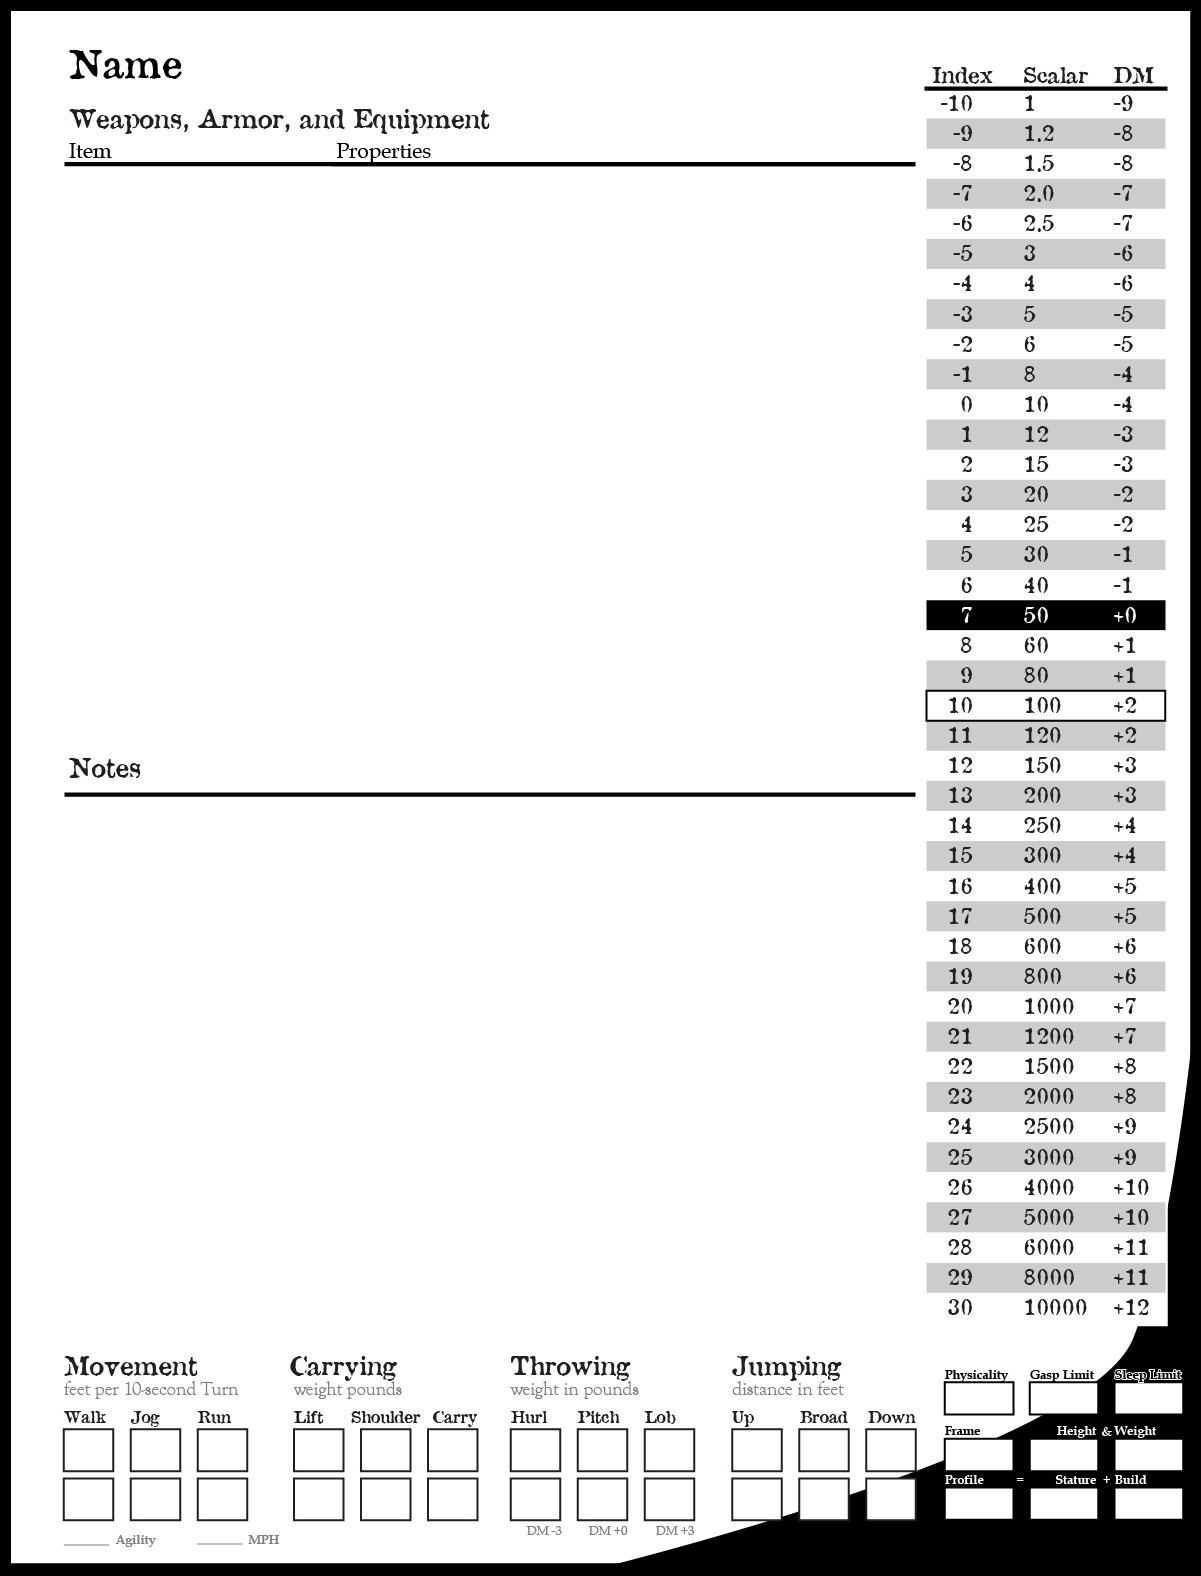
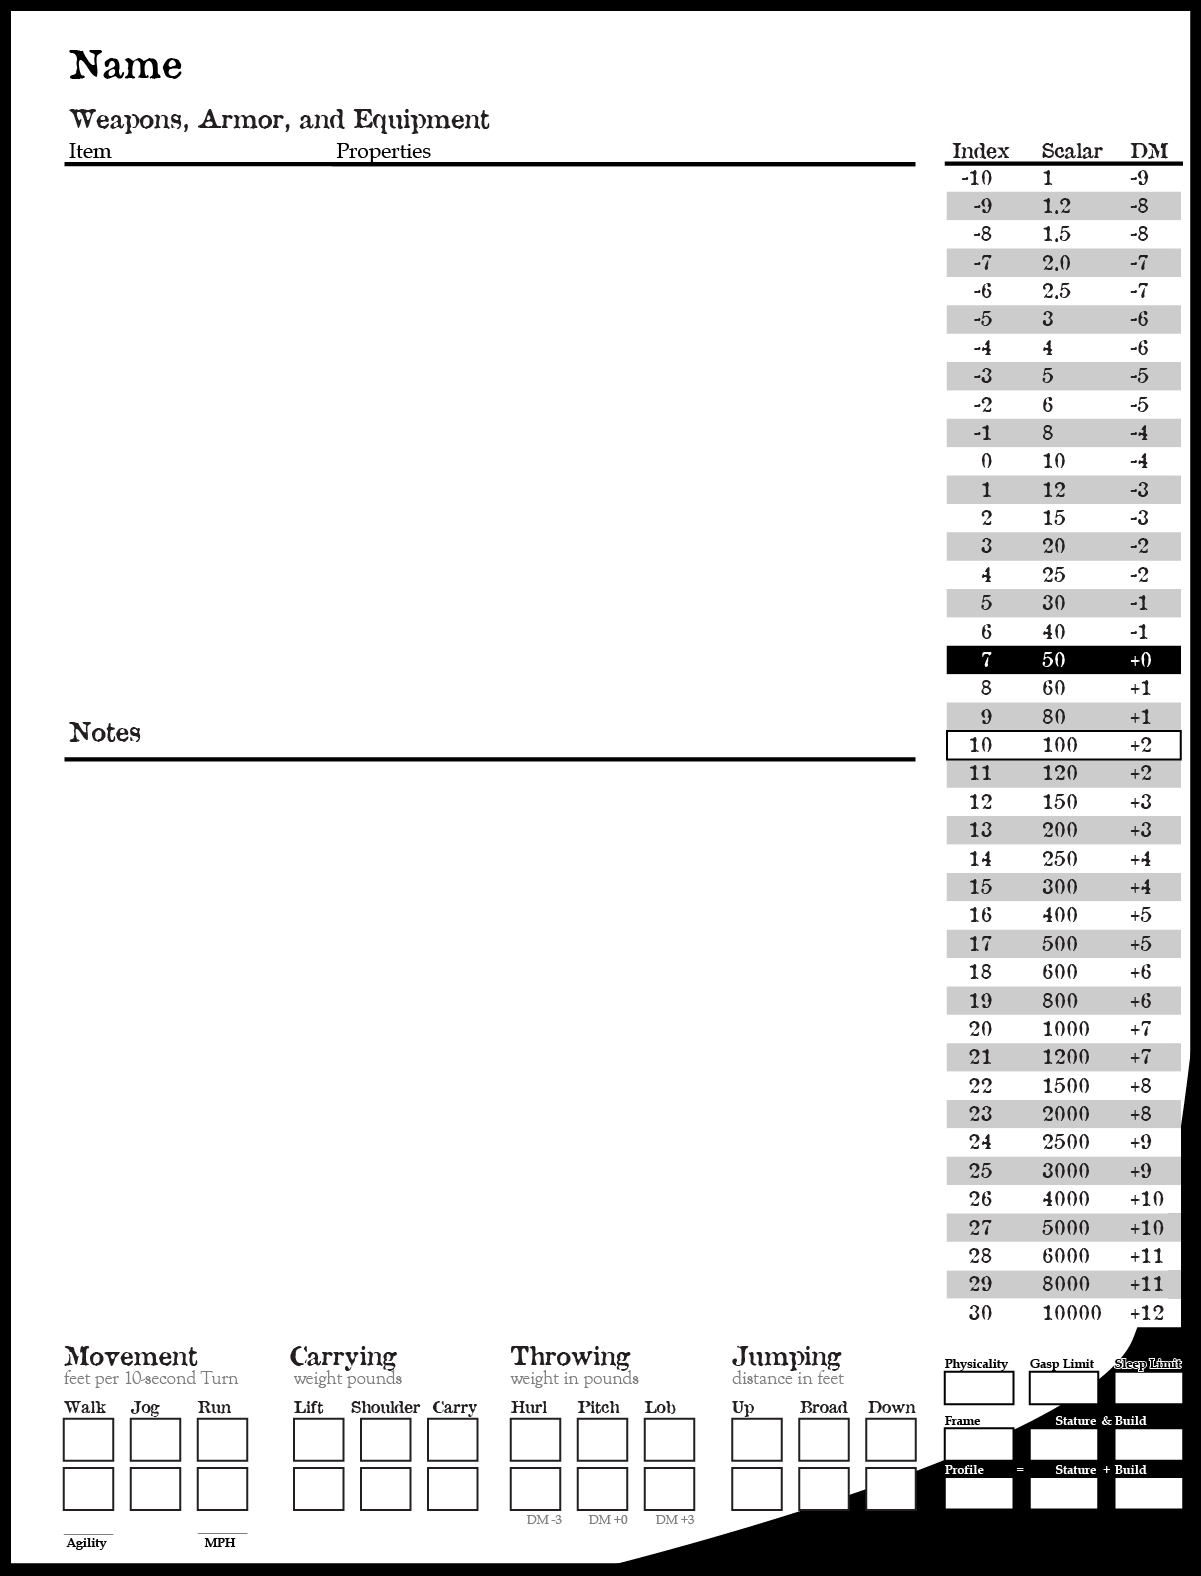
broken build. new images for crs.

diff --git a/public/character-creator/sheet-values.css b/public/character-creator/sheet-values.css
@@ -205,27 +205,70 @@
   line-height: 1.12;
 }
 #back .field-group-equipment .equipment-item { padding-left: 0; }
-#back .field-group-back-notes { left: 5%; top: 51.5%; width: 69.5%; height: 34%; }
+#back .field-group-back-notes { left: 5%; top: 49%; width: 69.5%; height: 34%; }
 #back .field-group-back-name .field,
 #back .field-group-back-notes .field { width: 100%; height: 100%; }
 #back [data-field="BackName"] { padding: 0; font-size: 2.1cqw; line-height: 1.08; }
 #back [data-field="BackNotes"] { font-size: 1.42cqw; }
 #back .field-group-derived-scores {
-  left: 5%; top: 81%; width: 69.5%; height: 5%;
-  display: grid; grid-template-columns: repeat(3, 1fr); gap: 1cqw;
+  left: 78.15%; top: 87%; width: 27.55%; height: 2.45%;
+  display: grid;
+  grid-template-columns: 21.65% 5.525% 26.65% 0.525% 19.65%;
 }
-#back .derived-score { display: grid; grid-template-columns: auto 1fr; align-items: baseline; gap: .5cqw; font-size: 1.42cqw; color: #555; }
-#back .derived-score .field { position: relative; width: 100%; height: 100%; padding: 0; font-size: 1.42cqw; line-height: 1; color: #222; }
-#back .field-group-movement-extras {
-  left: 0; top: 0; width: 100%; height: 100%;
+#back .field-group-derived-scores .field {
+  width: 100%;
+  height: 100%;
+  padding: 0;
+  font-size: 1.5cqw;
+  line-height: 1;
 }
+#back .field-group-derived-scores .field:nth-child(1) { grid-column: 1; }
+#back .field-group-derived-scores .field:nth-child(2) { grid-column: 3; }
+#back .field-group-derived-scores .field:nth-child(3) { grid-column: 5; }
+
 #back .field-group-movement-extras .field { position: absolute; top: 96.3% !important; width: 3.8%; height: 1.8%; padding: 0; text-align: center; font-size: 1.25cqw; line-height: 1; z-index: 6; }
-#back .field-group-movement-extras .field:nth-child(1) { left: 24.7% !important; }
-#back .field-group-movement-extras .field:nth-child(2) { left: 37.7% !important; }
+#back .field-group-movement-extras .field:nth-child(1) { left: 5% !important; }
+#back .field-group-movement-extras .field:nth-child(2) { left: 16% !important; }
+
+
+#back .field-group-biology {
+  left: 78.15%; top: 93.5%; width: 27.55%; height: 2.45%;
+  display: grid;
+  grid-template-columns: 21.65% 5.525% 26.65% 0.525% 19.65%;
+}
+#back .field-group-biology .field {
+  width: 100%;
+  height: 100%;
+  padding: 0;
+  font-size: 1.5cqw;
+  line-height: 1;
+}
+#back .field-group-biology .field:nth-child(1) { grid-column: 1; }
+#back .field-group-biology .field:nth-child(2) { grid-column: 3; }
+#back .field-group-biology .field:nth-child(3) { grid-column: 5; }
+
+
+#back .field-group-frame {
+  left: 78.15%; top: 94%; width: 27.55%; height: 2.45%;
+  display: grid;
+  grid-template-columns: 21.65% 5.525% 26.65% 0.525% 19.65%;
+}
+#back .field-group-frame .field {
+  width: 100%;
+  height: 100%;
+  padding: 0;
+  font-size: 1.5cqw;
+  line-height: 1;
+}
+#back .field-group-frame .field:nth-child(1) { grid-column: 1; }
+#back .field-group-frame .field:nth-child(2) { grid-column: 3; }
+#back .field-group-frame .field:nth-child(3) { grid-column: 5; }
+
+
 
 /* Bottom chart values use two fixed rows so every value remains in its box. */
 #back .field-group-universal-chart {
-  left: 4.55%; top: 90.68%; width: 72.25%; height: 5.72%;
+  left: 4.75%; top: 90.4%; width: 72.25%; height: 5.72%;
   display: flex;
   flex-wrap: wrap;
   align-content: space-between;
@@ -262,21 +305,7 @@
   line-height: 1;
   color: #777;
 }
-#back .field-group-biology {
-  left: 78.15%; top: 96.1%; width: 27.55%; height: 2.45%;
-  display: grid;
-  grid-template-columns: 21.65% 5.525% 26.65% 5.525% 19.65%;
-}
-#back .field-group-biology .field {
-  width: 100%;
-  height: 100%;
-  padding: 0;
-  font-size: 1.5cqw;
-  line-height: 1;
-}
-#back .field-group-biology .field:nth-child(1) { grid-column: 1; }
-#back .field-group-biology .field:nth-child(2) { grid-column: 3; }
-#back .field-group-biology .field:nth-child(3) { grid-column: 5; }
+
 
 @media (max-width: 600px) {
   .field { font-weight: 500; }

diff --git a/public/character-creator/app.js b/public/character-creator/app.js
@@ -42,13 +42,12 @@ import {
     group("back-name", [field("BackName", "area")]),
     group("equipment", [], { equipmentRows: true }),
     group("back-notes", [field("BackNotes", "area")]),
-    group("derived-scores", [field("Physicality", "derived"), field("GaspLimit", "derived"), field("SleepLimit", "derived")], { labeled: true }),
+    group("derived-scores", [field("Physicality", "derived"), field("GaspLimit", "derived"), field("SleepLimit", "derived")]),
     group("movement-extras", [field("ScalarAgility", "derived"), field("ScalarMphRun", "derived")]),
     group("universal-chart", [
       ...universalIndexes.map((name) => field(`Index${name}`, "derived")),
       ...universalIndexes.map((name) => field(`Scalar${name}`, "derived")),
     ]),
-    group("universal-center", [field("IndexUC", "number"), field("ScalarUC", "derived")]),
     group("biology", [field("Profile", "derived"), field("Stature", "number"), field("Build", "number")]),
   ];
 
@@ -116,7 +115,6 @@ import {
     const historySections = parseHistoryNotes(sourceData.HistoryNotes);
     const defaults = {
       ...sourceData,
-      IndexUC: sourceData.IndexUC ?? 0,
       ...historyValues(historySections),
       HistoryNotes: serializeHistoryNotes(historySections),
       EquipmentRows: parseEquipmentRows(
@@ -132,7 +130,7 @@ import {
       characterData: sourceData,
       sourceFieldNames: [...new Set([
         ...Object.keys(sourceData).filter((name) => name !== "CharacterLevel"),
-        "PML", "IndexUC",
+        "PML",
       ])],
       state: initialState,
       loadedState: clone(initialState),
@@ -237,7 +235,7 @@ import {
         if (type === "number") {
           input.step = "1";
           input.inputMode = "numeric";
-          if (["Damage", "Injury", "Fatigue", "Weariness", "Stress", "Rads", "WealthRank", "SocialRank", "ProfessionRank", "IndexUC", "Stature", "Build"].includes(name)) input.min = "0";
+          if (["Damage", "Injury", "Fatigue", "Weariness", "Stress", "Rads", "WealthRank", "SocialRank", "ProfessionRank", "Stature", "Build"].includes(name)) input.min = "0";
         } else if (type === "area" || type === "history") {
           input.maxLength = 4000;
         }

diff --git a/src/app/expanded-character-sheet.tsx b/src/app/expanded-character-sheet.tsx
@@ -69,8 +69,8 @@ function sheetPayload(draft: CharacterDraft, sheet: CharacterSheetData, data: St
     Stature: draft.properties.stature ?? 0,
     Build: draft.properties.build ?? 0,
     Physicality: derived?.physicality ?? 0,
-    GaspLimit: derived ? `${derived.gaspTurnsScalar} Turns` : '',
-    SleepLimit: derived ? `${derived.sleepHoursScalar} Hours` : '',
+    GaspLimit: derived ? `${derived.gaspTurnsScalar}` : '',
+    SleepLimit: derived ? `${derived.sleepHoursScalar}` : '',
     ScalarAgility: derived ? Number(derived.agilityFeet.toFixed(2)) : 0,
     ScalarMphRun: derived?.runMph ?? 0,
   };

diff --git a/scripts/character-sheet.ts b/scripts/character-sheet.ts
@@ -487,7 +487,6 @@ export function calculateCharacterSheet(
   set("IndexUp", jumpUp); set("ScalarUp", getScalarValue(jumpUp));
   set("IndexBroad", jumpBroad); set("ScalarBroad", getScalarValue(jumpBroad));
   set("IndexDown", jumpDown); set("ScalarDown", getScalarValue(jumpDown));
-  set("ScalarUC", getScalarValue(get("IndexUC")));
 
   const dm = (field: string): number => numberValue(getDMByValue(get(field)));
   const hitpoints = Math.max(1, 10 + pml * 3 + dm("REF") + dm("POW") + dm("PRE") + dm("MOV"));

diff --git a/public/character-creator/character-sheet.js b/public/character-creator/character-sheet.js
@@ -393,7 +393,6 @@ export function calculateCharacterSheet(source, decals = []) {
     set("ScalarBroad", getScalarValue(jumpBroad));
     set("IndexDown", jumpDown);
     set("ScalarDown", getScalarValue(jumpDown));
-    set("ScalarUC", getScalarValue(get("IndexUC")));
     const dm = (field) => numberValue(getDMByValue(get(field)));
     const hitpoints = Math.max(1, 10 + pml * 3 + dm("REF") + dm("POW") + dm("PRE") + dm("MOV"));
     const recovery = Math.max(1, dm("POW") + dm("FOR") + 3);
